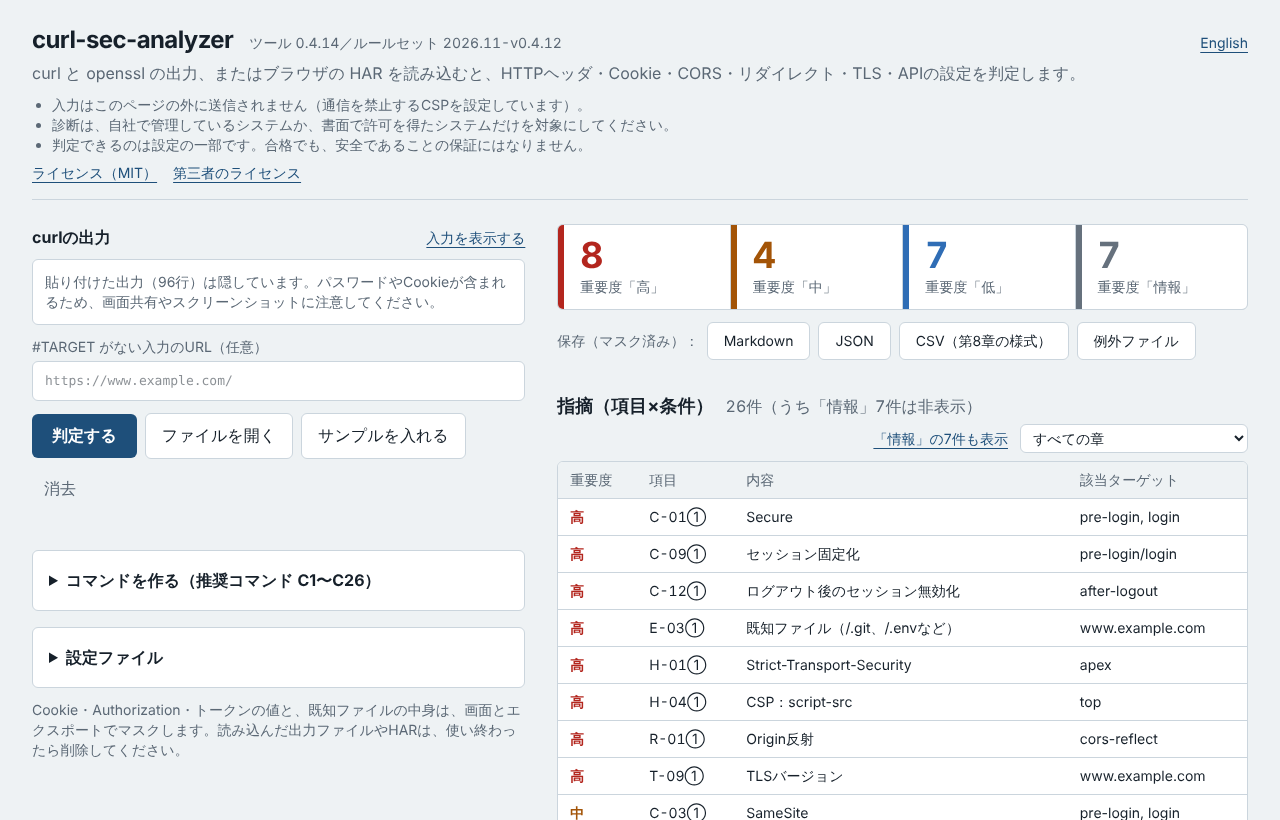
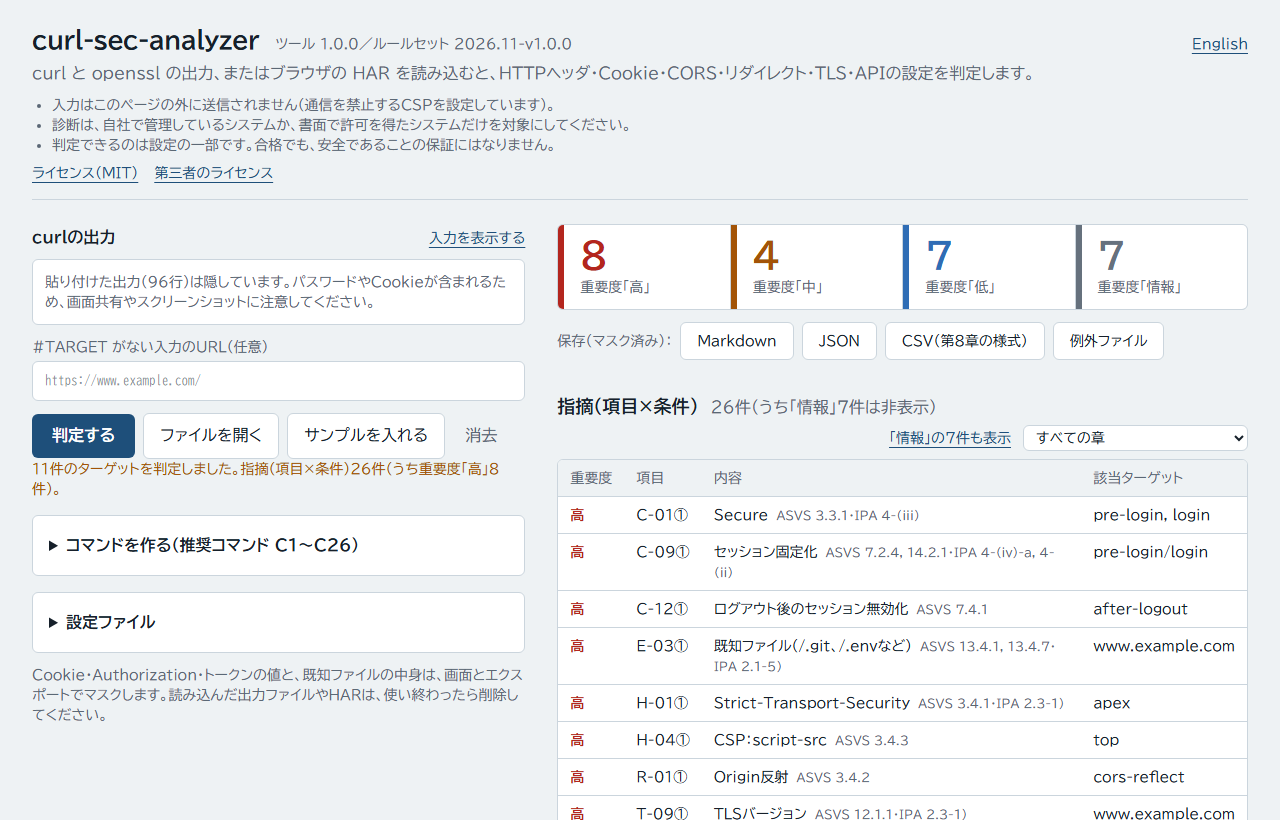
chore: 版を 1.0.0 にし、変更履歴（CHANGELOG.md）と版の付け方を足す
v1.0 の範囲を実装し、要確認事項を確かめたので、ツールの版を 0.4.57 から 1.0.0 にする。判定の範囲と条件は変えない。

- 版：package.json・package-lock.json・TOOL_VERSION を 1.0.0、RULESET_VERSION を 2026.11-v1.0.0 にする
- CHANGELOG.md：1.0.0 の機能のまとめと既知の限界を書く（公開するときに日付を入れる）
- 版の付け方：1.0.0 からセマンティックバージョニングにする（設計書・README・CONTRIBUTING.md）
- README の画像と共有用の画像を撮り直す
- 変更履歴（第45回）を足す

diff --git a/src/rules/ruleset.ts b/src/rules/ruleset.ts
@@ -12,8 +12,8 @@ import { csrfToken, mixedContentRule, passwordForm, htmlSecrets, sriRule } from 
 import { apiDocsAdmin, dirListing, downloadResponse, errorDetail, jsonp, robotsSecurityTxt, sourceMap } from './exposure';
 import { crlfInjection, hostInjection, httpVersion, httpsRedirect, methods, openRedirect, redirectChain } from './transport';
 
-export const TOOL_VERSION = '0.4.57';
-export const RULESET_VERSION = '2026.11-v0.4.57';
+export const TOOL_VERSION = '1.0.0';
+export const RULESET_VERSION = '2026.11-v1.0.0';
 
 export const TARGET_RULES: Rule[] = [
   hsts, hstsPreload, cspPresence, cspScript, cspObjectBase, clickjacking, cspDeprecated, nosniff, referrerPolicy, permissionsPolicy,

diff --git a/CHANGELOG.md b/CHANGELOG.md
@@ -1,0 +1,59 @@
+# 変更履歴
+
+curl-sec-analyzer の版ごとの変更です。版の付け方は [docs/design.md](docs/design.md) の「版の付け方」にあります。設計書のレビューの指摘と対応の経緯は [docs/history.md](docs/history.md) にあります。
+
+## 1.0.0（未公開。公開するときに日付を入れる）
+
+最初の安定版です。設計書のロードマップの v1.0 の範囲（MVP〜v1.0）をすべて実装し、24回の新鮮な目でのレビューと積み残しへの対応（docs/history.md の第1回〜第44回）を経ています。
+
+### 判定
+
+- 第1章〜第6章のうち、自動で判定できる70項目をすべて判定します。
+  - HTTP レスポンスヘッダ、Cookie、CORS、メソッド・通信・TLS、エラー・情報露出・HTML 本文、WebAPI（OWASP API Security Top 10 2023）が対象です。
+  - 手動確認の8項目（T-02、T-03、T-07①③、T-13、C-14、C-15、A-04〜A-06）は、ツールでは合否を出しません。
+- ログイン前後・ログアウト後・セッションIDの複数の採取を比べる、ターゲット横断の判定を行います（C-07②、C-09①、C-12①、H-02③、H-04⑤）。
+- ホスト単位の判定も行います（TLS のバージョン・暗号・証明書、既知ファイル）。
+- CSP は Google の csp_evaluator で評価し、チェックリストの条件に振り分けます。
+- 各項目を OWASP ASVS 5.0.0 の要件と、IPA「安全なウェブサイトの作り方」改訂第7版の項番に対応付けています。
+
+### 入力
+
+- 貼り付けとファイルの読み込みに対応します。
+  - curl の出力（`-i`、`-D -`、`-v`、`-L`）と openssl の出力（`s_client`、`x509`）を読みます。
+  - ブラウザの HAR を、ラベルを確認してから取り込みます。
+- `#TARGET`・`#META`・`#PROBE`・`#TLSPROBE`・`#CIPHERPROBE` の入力モデルに対応します。
+- コマンド生成器で、`#TARGET` 付きの採取スクリプト（C1〜C26）を作れます。
+  - 本文はヘッダと分けて採取します（`#BODY`）。
+  - 実行ごとの印で、応答の本文に書かれたマーカーと見分けます。
+
+### 結果と出力
+
+- 重要度別の件数、ターゲットごとの結果、診断カバレッジ（判定済み・入力不足・手動確認・未対応・対象外）を表示します。
+- 例外登録ができます（理由・承認者・期限）。
+- 前回の結果との差分を表示します。
+- 組織プロファイルで、重要度・対象外の項目・セッションCookieの名前などを変えられます。
+- 英語の UI に切り替えられます。
+- Markdown・JSON・CSV（第8章の記録様式）にエクスポートできます。
+  - 証跡・URL・実施コマンドは許可リストを通して出すので、秘密の値は画面にもファイルにも出ません。
+
+### セキュリティとプライバシー
+
+- 対象に一切アクセスしません。
+- 入力はブラウザの外に送信しません（メタ CSP の `connect-src 'none'`）。
+- ブラウザの保存領域は使いません。
+
+### 0.4.57 からの変更
+
+- 版を 1.0.0 にしました。判定の範囲と条件は 0.4.57 と同じです。
+
+### 既知の限界
+
+- E-01（エラーの詳細）と A-07（過剰なデータ露出）は、本文を採取していない応答では判定しません。
+  - 本文の項目（E-02・E-07〜E-10・E-12）と違い、na ではなく適用外として扱います。
+- プローブの判定パターン（先頭64バイト）は、形式の仕様と典型的な例で確かめたものです。実際の応答では確かめていません。
+  - phpinfo と server-status は、目印が先頭64バイトに現れないので、ほぼ常に E-03②（判定保留）になります。
+- Windows の標準の curl（Schannel）の `-v` は、TLS の版と暗号を出しません。
+  - そのため T-09②（TLS 1.3 非対応）と、合意した暗号による T-10 は判定できません。T-09①・T-10 は、C12・C23（openssl）で判定します。
+- 手で採取した `curl -i` の出力と、印のない openssl の出力は、診断対象のサーバが応答の本文やデータで判定を偽装できます。
+  - 生成スクリプトの出力（印のある入力）では起きません。
+- メタ CSP のため、`frame-ancestors`・`report-uri`・`sandbox` は効きません（[SECURITY.md](SECURITY.md)）。

diff --git a/README.md b/README.md
@@ -24,9 +24,9 @@ curl と openssl の出力を貼り付けると、Webアプリ・WebAPIのセキ
 #TARGET url=https://www.example.com/mypage label=mypage sensitive=1
 ```
 
-## 現在の状態：0.4 系（v1.0 の範囲まで実装済み）
+## 現在の状態：1.0.0
 
-自動で判定できる項目（手動確認の8項目を除く70項目）をすべて実装しています（C-04②・H-11③の条件は手動確認）。v0.4 では次を追加しました。
+自動で判定できる項目（手動確認の8項目を除く70項目）をすべて実装しています（C-04②・H-11③の条件は手動確認）。版ごとの変更と既知の限界は [CHANGELOG.md](CHANGELOG.md) にあります。主な機能は次のとおりです。
 
 - **前回との差分**：「設定ファイル」→「前回の結果（JSON）を読み込む」で、以前にエクスポートしたJSONと比べ、新規・解消・重要度の変化・例外登録・再診断していない・継続に分けて表示します。curl のターゲットはラベルで、HAR のターゲットはメソッドとURLで突き合わせます（HAR のラベル番号は記録し直すと変わるため）。前回と組織プロファイルが違う場合は警告します。Markdown にも差分の表が入ります。
 - **組織プロファイル**：`profile.json` で、項目・条件ごとの重要度、判定しない項目、セッションCookieの名前（推定を上書き）、C-05 の期限の基準、E-08 で自社の配信元とするスクリプトの配信元（`trustedScriptOrigins`）を組織ごとに決められます。ひな形は画面の「プロファイルのひな形」から保存できます。プロファイルで変えた重要度には「*」が付き、対象外の項目は診断カバレッジで「対象外」になります。
@@ -50,7 +50,7 @@ CSP（H-04・H-05・H-07）は Google の csp_evaluator（Apache-2.0）で評価
 
 v1.0 の範囲として、各項目を **OWASP ASVS 5.0.0** の要件と **IPA「安全なウェブサイトの作り方」改訂第7版** の項番に対応付けました。画面の項目名の横、Markdown（診断カバレッジの表の「ASVS 5.0.0」「IPA」列）、JSON（`standards`）に出ます。これは関連する要件の番号で、その要件を満たすかどうかの判定ではありません。対応は `src/engine/items.json` の `asvs`・`ipa` にあり、ASVS の要件のレベル（L1〜L3）は原典の v5.0.0 タグから作った `src/engine/asvs-levels.json` にあります（要件の文言は CC BY-SA 4.0 のため含めていません）。
 
-ブラウザだけで使う運用のため、当初 v1.0 に予定していた CLI 版は作りません（`docs/design.md` の「判断の根拠」14）。v1.0 の範囲は実装済みですが、ツールの版は当面 0.x のままにしています（「v1.0」は機能の段階の名前で、版とは別です）。
+ブラウザだけで使う運用のため、当初 v1.0 に予定していた CLI 版は作りません（`docs/design.md` の「判断の根拠」14）。版は 1.0.0 からセマンティックバージョニングで付けます（`docs/design.md` の「版の付け方」）。
 
 ## 開発
 

diff --git a/docs/history.md b/docs/history.md
@@ -977,3 +977,14 @@
 | Mozilla Server Side TLS | 最新は6.0（5.8 で Intermediate から DHE を外し、6.0 で Old を廃止）。wiki は移転の案内だけ | 出典を指針の JSON に替える。T-10 は DHE＋AEAD を合格のままにする（IPA の TLS 暗号設定ガイドラインに合わせる。判断の根拠15） | 設計書 |
 | 出典・ライセンス・そのほか | OWASP Secure Headers Project は移転（旧URLは404）。貼り付け型 OSS などは MIT（techshield-tech/http-headers は存在しない）。Observatory の現行の加点の合計は165。Trusted Types は Baseline 2026。HTTP/2 のヘッダ名は常に小文字。C12・C23 は OpenSSL 3.5.9 で正しく判定した。C23 の暗号名は正しい。Chrome・Edge の HAR の既定は sanitized | 設計書の要確認事項・出典・既存ツールの表に反映する | 設計書 |
 | 未対応 | プローブの判定パターンは、形式の仕様と典型的な例で確かめただけで、実際の応答では確かめていない（要確認事項に残す） | 次回以降 | — |
+
+### 1.0.0 の準備（第45回）
+
+v1.0 の範囲を実装し、要確認事項（第44回）を確かめたので、ツールの版を 1.0.0 にする（2026-11-18）。判定の範囲と条件は 0.4.57 と同じ。
+
+| 対象 | 内容 | 反映箇所 |
+| --- | --- | --- |
+| 版 | 0.4.57 から 1.0.0 にする。ルールセットの版は`2026.11-v1.0.0` | `package.json`、`package-lock.json`、`src/rules/ruleset.ts` |
+| 版の付け方 | 1.0.0 からセマンティックバージョニングにする（入力・ファイルの互換を壊す変更はメジャー、追加はマイナー、修正はパッチ） | 設計書の「版の付け方」、README |
+| 変更履歴 | 利用者向けの変更履歴（機能のまとめと既知の限界）を作る。GitHub のリリースの本文にも使う | `CHANGELOG.md`、CONTRIBUTING.md |
+| 画像 | README の画像と共有用の画像を撮り直す | `docs/screenshot.png`、`public/og.png` |
